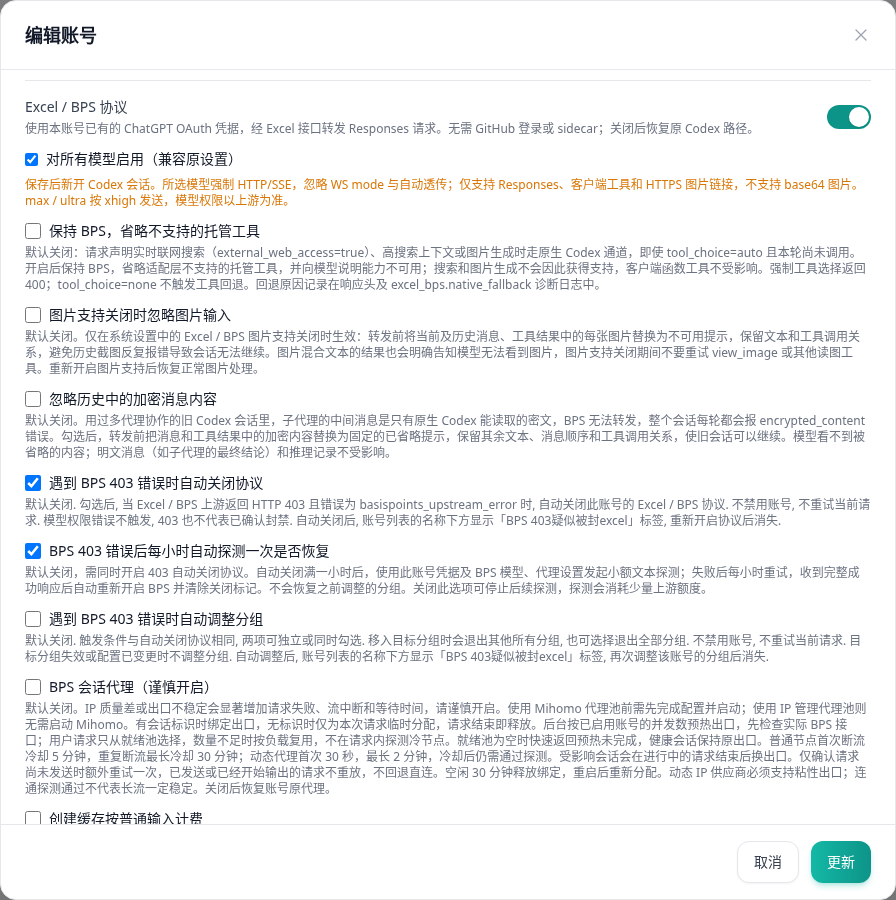
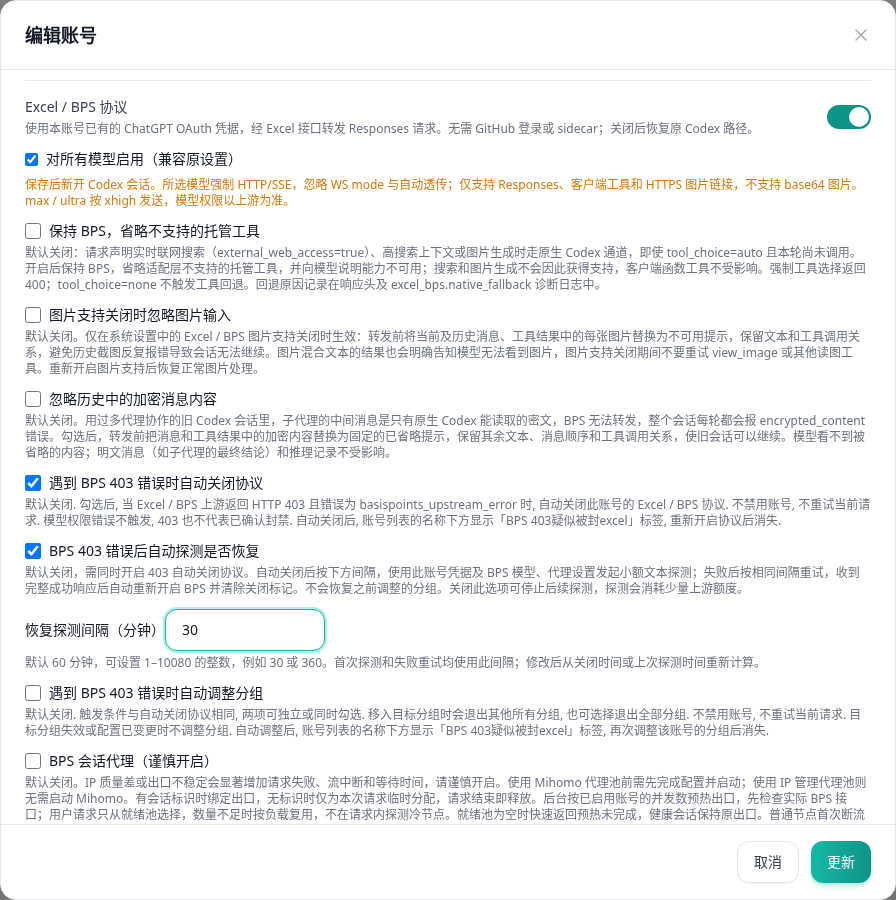
feat(bps): configure 403 recovery probe interval in minutes

Changed region(s): [[0.0312, 0.5911, 0.9688, 0.9333]]

diff --git a/frontend/src/components/account/EditAccountModal.vue b/frontend/src/components/account/EditAccountModal.vue
@@ -1843,6 +1843,14 @@
             <span class="text-sm">{{ t('admin.accounts.openai.excelBPSAutoRecoverOn403') }}</span>
           </label>
           <p class="mt-1 text-xs text-gray-500 dark:text-gray-400">{{ t('admin.accounts.openai.excelBPSAutoRecoverOn403Desc') }}</p>
+          <div v-if="excelBPSAutoRecoverOn403 && excelBPSAutoDisableOn403" class="mt-2">
+            <label class="block space-y-1">
+              <span class="text-sm">{{ t('admin.accounts.openai.excelBPS403RecoveryInterval') }}</span>
+              <input v-model.number="excelBPSRecoveryIntervalMinutes" type="number" min="1" :max="MAX_BPS_RECOVERY_INTERVAL_MINUTES" step="1" required
+                data-testid="excel-bps-recovery-interval" class="input w-40" />
+            </label>
+            <p class="mt-1 text-xs text-gray-500 dark:text-gray-400">{{ t('admin.accounts.openai.excelBPS403RecoveryIntervalHint') }}</p>
+          </div>
         </div>
         <div v-if="excelBPSEnabled" class="mt-3">
           <label class="flex items-center gap-2">
@@ -3219,6 +3227,7 @@
 <script setup lang="ts">
 import { ref, reactive, computed, watch, nextTick, onMounted } from 'vue'
 import { useI18n } from 'vue-i18n'
+import { DEFAULT_BPS_RECOVERY_INTERVAL_MINUTES, MAX_BPS_RECOVERY_INTERVAL_MINUTES, isValidBPSRecoveryInterval, bpsRecoveryIntervalOrDefault } from '@/utils/excelBPSRecovery'
 import { useAppStore } from '@/stores/app'
 import { useAuthStore } from '@/stores/auth'
 
@@ -3847,6 +3856,7 @@ const excelBPSProxySource = ref<'mihomo' | 'ip_pool'>('mihomo')
 const excelBPSCacheCreationAsInput = ref(false)
 const excelBPSAutoDisableOn403 = ref(false)
 const excelBPSAutoRecoverOn403 = ref(false)
+const excelBPSRecoveryIntervalMinutes = ref<number | string>(DEFAULT_BPS_RECOVERY_INTERVAL_MINUTES)
 const excelBPS403RecoveryPending = computed(() => props.account?.extra?.openai_excel_bps !== true && typeof props.account?.extra?.openai_excel_bps_403_disabled_at === 'string')
 const excelBPSOmitUnsupportedTools = ref(false)
 const excelBPSIgnoreImages = ref(false)
@@ -4360,6 +4370,7 @@ const syncFormFromAccount = (newAccount: Account | null) => {
   excelBPSCacheCreationAsInput.value = false
   excelBPSAutoDisableOn403.value = false
   excelBPSAutoRecoverOn403.value = false
+  excelBPSRecoveryIntervalMinutes.value = DEFAULT_BPS_RECOVERY_INTERVAL_MINUTES
   excelBPSOmitUnsupportedTools.value = false
   excelBPSIgnoreImages.value = false
   excelBPSIgnoreEncryptedContent.value = false
@@ -4396,6 +4407,7 @@ const syncFormFromAccount = (newAccount: Account | null) => {
     excelBPSCacheCreationAsInput.value = excelBPSEnabled.value && extra?.openai_excel_bps_cache_creation_as_input === true
     excelBPSAutoDisableOn403.value = newAccount.type === 'oauth' && extra?.openai_excel_bps_auto_disable_on_403 === true
     excelBPSAutoRecoverOn403.value = newAccount.type === 'oauth' && extra?.openai_excel_bps_auto_recover_on_403 === true
+    excelBPSRecoveryIntervalMinutes.value = bpsRecoveryIntervalOrDefault(extra?.openai_excel_bps_403_recovery_interval_minutes)
     excelBPSOmitUnsupportedTools.value = excelBPSEnabled.value && extra?.openai_excel_bps_omit_unsupported_tools === true
     excelBPSIgnoreImages.value = excelBPSEnabled.value && extra?.openai_excel_bps_ignore_images === true
     excelBPSIgnoreEncryptedContent.value = excelBPSEnabled.value && extra?.openai_excel_bps_ignore_encrypted_content === true
@@ -5362,6 +5374,10 @@ const submitUpdateAccount = async (accountID: number, updatePayload: Record<stri
 const handleSubmit = async () => {
   if (!props.account) return
   const accountID = props.account.id
+  if (props.account.platform === 'openai' && props.account.type === 'oauth' && !isSparkShadow.value && (excelBPSEnabled.value || excelBPS403RecoveryPending.value) && excelBPSAutoDisableOn403.value && excelBPSAutoRecoverOn403.value && !isValidBPSRecoveryInterval(excelBPSRecoveryIntervalMinutes.value)) {
+    appStore.showError(t('admin.accounts.openai.excelBPS403RecoveryIntervalInvalid'))
+    return
+  }
   if (props.account.platform === 'openai' && props.account.type === 'oauth' && !isSparkShadow.value && excelBPSEnabled.value && excelBPSAutoMoveOn403.value) {
     const target = Number(excelBPS403TargetGroupID.value)
     if (excelBPS403TargetGroupID.value === '' || !Number.isSafeInteger(target) || target < 0 ||
@@ -5967,6 +5983,9 @@ const handleSubmit = async () => {
         newExtra.openai_excel_bps_auto_disable_on_403 = true
       } else {
         delete newExtra.openai_excel_bps_auto_disable_on_403
+      }
+      if (newExtra.openai_excel_bps === true || preserveDisabledBPS) {
+        newExtra.openai_excel_bps_403_recovery_interval_minutes = bpsRecoveryIntervalOrDefault(excelBPSRecoveryIntervalMinutes.value)
       }
       if ((newExtra.openai_excel_bps === true || preserveDisabledBPS) && excelBPSAutoDisableOn403.value && excelBPSAutoRecoverOn403.value) {
         newExtra.openai_excel_bps_auto_recover_on_403 = true

diff --git a/frontend/src/i18n/locales/en/admin/accounts.ts b/frontend/src/i18n/locales/en/admin/accounts.ts
@@ -664,8 +664,11 @@ export default {
         excelBPSProxySourceIPPool: 'IP management pool',
         excelBPSProxySourceIPPoolDesc: 'Uses every active, unexpired proxy in IP management as the exit pool, with no Mihomo required. Binding, ranking, cooldown and probing follow the same rules as the Mihomo pool. Proxy changes apply within about 15 seconds.',
         excelBPSMihomoDesc: 'Off by default. Poor-quality or unstable exit IPs can substantially increase request failures, interrupted streams, and wait times. Enable with caution. Configure and start Mihomo before using its pool; the IP Management pool does not require Mihomo. Identified sessions keep a bound exit; requests without a session ID use a temporary binding released when the request ends. A background worker warms exits to match enabled account concurrency and checks the actual BPS endpoint. Requests select only ready exits and reuse them by load when scarce; they never probe cold nodes. An empty ready pool fails fast while warming continues. Healthy sessions keep their exit. Ordinary nodes cool down for 5 minutes after the first broken stream, increasing to at most 30 minutes on repeated failures. Dynamic proxies start at 30 seconds, up to 2 minutes. Nodes must pass probes after cooldown. Affected sessions switch exits only after in-flight requests finish. One extra attempt is allowed only when the request is confirmed unsent. Sent requests and responses already streaming are not replayed, and there is no direct fallback. Idle bindings expire after 30 minutes and are reassigned after restart. Dynamic IP providers must support sticky exits; a successful connectivity probe does not guarantee a stable long-running stream. Disabling restores the account proxy.',
-        excelBPSAutoRecoverOn403: 'Check BPS recovery hourly after a 403 error',
-        excelBPSAutoRecoverOn403Desc: 'Off by default; requires automatic disable on 403. One hour after an automatic shutdown, send a small text probe using this account’s credentials, BPS model and proxy settings. Retry hourly on failure; re-enable BPS and clear the shutdown marker only after a complete successful response. Previously changed groups are not restored. Turn this off to stop future probes. Probes use a small amount of upstream quota.',
+        excelBPSAutoRecoverOn403: 'Automatically check BPS recovery after a 403 error',
+        excelBPSAutoRecoverOn403Desc: 'Off by default; requires automatic disable on 403. After an automatic shutdown, send a small text probe at the interval below using this account’s credentials, BPS model and proxy settings. Retry at the same interval on failure; re-enable BPS and clear the shutdown marker only after a complete successful response. Previously changed groups are not restored. Turn this off to stop future probes. Probes use a small amount of upstream quota.',
+        excelBPS403RecoveryInterval: 'Recovery probe interval (minutes)',
+        excelBPS403RecoveryIntervalHint: 'Defaults to 60 minutes. Enter an integer from 1 to 10080, such as 30 or 360. Applies to the first probe and retries; changes are measured from shutdown or the last probe.',
+        excelBPS403RecoveryIntervalInvalid: 'Recovery probe interval must be an integer from 1 to 10080 minutes',
         excelBPSAutoDisableOn403: 'Automatically disable BPS on a 403 error',
         excelBPSAutoMoveOn403: 'Automatically change groups on a BPS 403 error',
         excelBPSAutoMoveOn403Desc: 'Disabled by default. Uses the same trigger as disabling BPS; both options work independently or together. Move to the selected group and leave all other groups, or leave every group. The account stays enabled and the request is not retried. Invalid destinations or changed settings leave memberships unchanged. After an automatic move, the account list shows a “BPS 403: Excel possibly banned” badge under the account name until the account’s groups change again.',

diff --git a/frontend/src/components/account/BulkEditAccountModal.vue b/frontend/src/components/account/BulkEditAccountModal.vue
@@ -112,6 +112,14 @@
                 <span class="text-sm">{{ t('admin.accounts.openai.excelBPSAutoRecoverOn403') }}</span>
               </label>
               <p class="mt-1 text-xs text-gray-500 dark:text-gray-400">{{ t('admin.accounts.openai.excelBPSAutoRecoverOn403Desc') }}</p>
+              <div v-if="excelBPSAutoRecoverOn403 && excelBPSAutoDisableOn403" class="mt-2">
+                <label class="block space-y-1">
+                  <span class="text-sm">{{ t('admin.accounts.openai.excelBPS403RecoveryInterval') }}</span>
+                  <input v-model.number="excelBPSRecoveryIntervalMinutes" type="number" min="1" :max="MAX_BPS_RECOVERY_INTERVAL_MINUTES" step="1" required
+                    data-testid="bulk-excel-bps-recovery-interval" class="input w-40" />
+                </label>
+                <p class="mt-1 text-xs text-gray-500 dark:text-gray-400">{{ t('admin.accounts.openai.excelBPS403RecoveryIntervalHint') }}</p>
+              </div>
             </div>
             <div class="mt-3">
               <label class="flex items-center gap-2">
@@ -1553,6 +1561,7 @@
 <script setup lang="ts">
 import { ref, watch, computed } from 'vue'
 import { useI18n } from 'vue-i18n'
+import { DEFAULT_BPS_RECOVERY_INTERVAL_MINUTES, MAX_BPS_RECOVERY_INTERVAL_MINUTES, isValidBPSRecoveryInterval, bpsRecoveryIntervalOrDefault } from '@/utils/excelBPSRecovery'
 import { useAppStore } from '@/stores/app'
 import { useAuthStore } from '@/stores/auth'
 import { adminAPI } from '@/api/admin'
@@ -1786,6 +1795,7 @@ const excelBPSProxySource = ref<'mihomo' | 'ip_pool'>('mihomo')
 const excelBPSCacheCreationAsInput = ref(false)
 const excelBPSAutoDisableOn403 = ref(false)
 const excelBPSAutoRecoverOn403 = ref(false)
+const excelBPSRecoveryIntervalMinutes = ref<number | string>(DEFAULT_BPS_RECOVERY_INTERVAL_MINUTES)
 const excelBPSOmitUnsupportedTools = ref(false)
 const excelBPSIgnoreImages = ref(false)
 const excelBPSIgnoreEncryptedContent = ref(false)
@@ -2100,6 +2110,7 @@ const buildUpdatePayload = (): Record<string, unknown> | null => {
       excelBPSEnabled.value && excelBPSCacheCreationAsInput.value
     extra.openai_excel_bps_auto_disable_on_403 = excelBPSEnabled.value && excelBPSAutoDisableOn403.value
     extra.openai_excel_bps_auto_recover_on_403 = excelBPSEnabled.value && excelBPSAutoDisableOn403.value && excelBPSAutoRecoverOn403.value
+    extra.openai_excel_bps_403_recovery_interval_minutes = bpsRecoveryIntervalOrDefault(excelBPSRecoveryIntervalMinutes.value)
     extra.openai_excel_bps_omit_unsupported_tools = excelBPSEnabled.value && excelBPSOmitUnsupportedTools.value
     extra.openai_excel_bps_ignore_images = excelBPSEnabled.value && excelBPSIgnoreImages.value
     extra.openai_excel_bps_ignore_encrypted_content = excelBPSEnabled.value && excelBPSIgnoreEncryptedContent.value
@@ -2362,6 +2373,10 @@ const handleSubmit = async () => {
     return
   }
 
+  if (enableExcelBPS.value && allOpenAIOAuthOnly.value && excelBPSEnabled.value && excelBPSAutoDisableOn403.value && excelBPSAutoRecoverOn403.value && !isValidBPSRecoveryInterval(excelBPSRecoveryIntervalMinutes.value)) {
+    appStore.showError(t('admin.accounts.openai.excelBPS403RecoveryIntervalInvalid'))
+    return
+  }
   if (enableExcelBPS.value && allOpenAIOAuthOnly.value && excelBPSEnabled.value && excelBPSAutoMoveOn403.value) {
     const target = Number(excelBPS403TargetGroupID.value)
     if (excelBPS403TargetGroupID.value === '' || !Number.isSafeInteger(target) || target < 0 ||
@@ -2528,6 +2543,7 @@ watch(
       excelBPSCacheCreationAsInput.value = false
       excelBPSAutoDisableOn403.value = false
       excelBPSAutoRecoverOn403.value = false
+      excelBPSRecoveryIntervalMinutes.value = DEFAULT_BPS_RECOVERY_INTERVAL_MINUTES
       excelBPSOmitUnsupportedTools.value = false
       excelBPSIgnoreImages.value = false
       excelBPSIgnoreEncryptedContent.value = false

diff --git a/frontend/src/i18n/locales/zh/admin/accounts.ts b/frontend/src/i18n/locales/zh/admin/accounts.ts
@@ -782,8 +782,11 @@ export default {
         excelBPSProxySourceIPPool: 'IP 管理代理池',
         excelBPSProxySourceIPPoolDesc: '使用「IP 管理」里全部启用且未过期的代理组成出口池，无需启动 Mihomo；绑定、选路、冷却和探测规则与 Mihomo 代理池相同。代理增删或启停约 15 秒内生效。',
         excelBPSMihomoDesc: '默认关闭。IP 质量差或出口不稳定会显著增加请求失败、流中断和等待时间，请谨慎开启。使用 Mihomo 代理池前需先完成配置并启动；使用 IP 管理代理池则无需启动 Mihomo。有会话标识时绑定出口，无标识时仅为本次请求临时分配，请求结束即释放。后台按已启用账号的并发数预热出口，先检查实际 BPS 接口；用户请求只从就绪池选择，数量不足时按负载复用，不在请求内探测冷节点。就绪池为空时快速返回预热未完成，健康会话保持原出口。普通节点首次断流冷却 5 分钟，重复断流最长冷却 30 分钟；动态代理首次 30 秒，最长 2 分钟，冷却后仍需通过探测。受影响会话会在进行中的请求结束后换出口。仅确认请求尚未发送时额外重试一次，已发送或已经开始输出的请求不重放，不回退直连。空闲 30 分钟释放绑定，重启后重新分配。动态 IP 供应商必须支持粘性出口；连通探测通过不代表长流一定稳定。关闭后恢复账号原代理。',
-        excelBPSAutoRecoverOn403: 'BPS 403 错误后每小时自动探测一次是否恢复',
-        excelBPSAutoRecoverOn403Desc: '默认关闭，需同时开启 403 自动关闭协议。自动关闭满一小时后，使用此账号凭据及 BPS 模型、代理设置发起小额文本探测；失败后每小时重试，收到完整成功响应后自动重新开启 BPS 并清除关闭标记。不会恢复之前调整的分组。关闭此选项可停止后续探测，探测会消耗少量上游额度。',
+        excelBPSAutoRecoverOn403: 'BPS 403 错误后自动探测是否恢复',
+        excelBPSAutoRecoverOn403Desc: '默认关闭，需同时开启 403 自动关闭协议。自动关闭后按下方间隔，使用此账号凭据及 BPS 模型、代理设置发起小额文本探测；失败后按相同间隔重试，收到完整成功响应后自动重新开启 BPS 并清除关闭标记。不会恢复之前调整的分组。关闭此选项可停止后续探测，探测会消耗少量上游额度。',
+        excelBPS403RecoveryInterval: '恢复探测间隔（分钟）',
+        excelBPS403RecoveryIntervalHint: '默认 60 分钟，可设置 1–10080 的整数，例如 30 或 360。首次探测和失败重试均使用此间隔；修改后从关闭时间或上次探测时间重新计算。',
+        excelBPS403RecoveryIntervalInvalid: '恢复探测间隔必须是 1–10080 之间的整数（分钟）',
         excelBPSAutoDisableOn403: '遇到 BPS 403 错误时自动关闭协议',
         excelBPSAutoMoveOn403: '遇到 BPS 403 错误时自动调整分组',
         excelBPSAutoMoveOn403Desc: '默认关闭. 触发条件与自动关闭协议相同, 两项可独立或同时勾选. 移入目标分组时会退出其他所有分组, 也可选择退出全部分组. 不禁用账号, 不重试当前请求. 目标分组失效或配置已变更时不调整分组. 自动调整后, 账号列表的名称下方显示「BPS 403疑似被封excel」标签, 再次调整该账号的分组后消失.',

diff --git a/frontend/src/components/account/__tests__/EditAccountModal.spec.ts b/frontend/src/components/account/__tests__/EditAccountModal.spec.ts
@@ -556,7 +556,7 @@ describe('EditAccountModal', () => {
     wrapper.unmount()
   })
 
-  it('persists hourly 403 recovery and clears it when auto-disable is turned off', async () => {
+  it.each([30, 360])('persists a %i minute recovery interval and disables recovery with auto-disable', async (minutes) => {
     const account = buildAccount()
     account.type = 'oauth'
     account.extra = { openai_excel_bps: true }
@@ -568,11 +568,16 @@ describe('EditAccountModal', () => {
     expect(wrapper.get<HTMLInputElement>(recovery).element.disabled).toBe(true)
     await wrapper.get('[data-testid="excel-bps-auto-disable-on-403"]').setValue(true)
     await wrapper.get(recovery).setValue(true)
+    const interval = wrapper.get<HTMLInputElement>('[data-testid="excel-bps-recovery-interval"]')
+    expect(interval.element.value).toBe('60')
+    await interval.setValue(String(minutes))
     await wrapper.get('form#edit-account-form').trigger('submit.prevent')
     await flushPromises()
     const extra = updateAccountMock.mock.calls[0]?.[1]?.extra
     expect(extra.openai_excel_bps_auto_recover_on_403).toBe(true)
+    expect(extra.openai_excel_bps_403_recovery_interval_minutes).toBe(minutes)
     await wrapper.setProps({ account: { ...account, extra } })
+    expect(wrapper.get<HTMLInputElement>('[data-testid="excel-bps-recovery-interval"]').element.value).toBe(String(minutes))
     expect(wrapper.get<HTMLInputElement>(recovery).element.checked).toBe(true)
     await wrapper.get('[data-testid="excel-bps-auto-disable-on-403"]').setValue(false)
     await wrapper.get('form#edit-account-form').trigger('submit.prevent')
@@ -580,10 +585,24 @@ describe('EditAccountModal', () => {
     expect(updateAccountMock.mock.calls[1]?.[1]?.extra.openai_excel_bps_auto_recover_on_403).toBeUndefined()
   })
 
+  it.each(['', '0', '-1', '1.5', '10081'])('rejects an invalid recovery interval: %s', async (value) => {
+    const account = buildAccount()
+    account.type = 'oauth'
+    account.extra = { openai_excel_bps: true, openai_excel_bps_auto_disable_on_403: true, openai_excel_bps_auto_recover_on_403: true }
+    updateAccountMock.mockReset()
+    const wrapper = mountModal(account)
+    await wrapper.get('[data-testid="excel-bps-recovery-interval"]').setValue(value)
+    await wrapper.get('form#edit-account-form').trigger('submit.prevent')
+    await flushPromises()
+    expect(updateAccountMock).not.toHaveBeenCalled()
+    wrapper.unmount()
+  })
+
   it('can enable and stop recovery on a 403-disabled account without losing hidden BPS options', async () => {
     const account = buildAccount()
     account.type = 'oauth'
     const options = {
+      openai_excel_bps_403_recovery_interval_minutes: 360,
       openai_excel_bps_models: ['gpt-6-astra'], openai_excel_bps_mihomo: true,
       openai_excel_bps_proxy_source: 'ip_pool', openai_excel_bps_ignore_images: true,
       openai_excel_bps_ignore_encrypted_content: true, openai_excel_bps_cache_creation_as_input: true,

diff --git a/frontend/src/components/account/__tests__/BulkEditAccountModal.spec.ts b/frontend/src/components/account/__tests__/BulkEditAccountModal.spec.ts
@@ -122,6 +122,7 @@ describe('BulkEditAccountModal', () => {
       openai_excel_bps_omit_unsupported_tools: false,
       openai_excel_bps_auto_disable_on_403: false,
       openai_excel_bps_auto_recover_on_403: false,
+      openai_excel_bps_403_recovery_interval_minutes: 60,
       openai_excel_bps_auto_move_on_403: false,
       openai_excel_bps_403_target_group_id: null
     }
@@ -157,20 +158,35 @@ describe('BulkEditAccountModal', () => {
       expect(adminAPI.accounts.bulkUpdate).toHaveBeenCalledWith([1, 2], { status: 'active' })
     })
 
-    it('saves hourly 403 recovery only with automatic shutdown enabled', async () => {
+    it.each(['', '0', '-1', '1.5', '10081'])('rejects invalid bulk recovery interval %s', async (value) => {
+      const wrapper = mountModal(oauthProps)
+      await enableBPS(wrapper)
+      await wrapper.get('[data-testid="bulk-excel-bps-auto-disable-on-403"]').setValue(true)
+      await wrapper.get('[data-testid="bulk-excel-bps-auto-recover-on-403"]').setValue(true)
+      await wrapper.get('[data-testid="bulk-excel-bps-recovery-interval"]').setValue(value)
+      await submit(wrapper)
+      expect(adminAPI.accounts.bulkUpdate).not.toHaveBeenCalled()
+      expect(showError).toHaveBeenCalledWith('admin.accounts.openai.excelBPS403RecoveryIntervalInvalid')
+      wrapper.unmount()
+    })
+
+    it.each([30, 360])('saves a %i minute interval only with automatic shutdown enabled', async (minutes) => {
       const wrapper = mountModal(oauthProps)
       await enableBPS(wrapper)
       const recovery = '[data-testid="bulk-excel-bps-auto-recover-on-403"]'
       expect(wrapper.get<HTMLInputElement>(recovery).element.disabled).toBe(true)
       await wrapper.get('[data-testid="bulk-excel-bps-auto-disable-on-403"]').setValue(true)
       await wrapper.get(recovery).setValue(true)
+      const interval = wrapper.get<HTMLInputElement>('[data-testid="bulk-excel-bps-recovery-interval"]')
+      expect(interval.element.value).toBe('60')
+      await interval.setValue(String(minutes))
       await submit(wrapper)
       expect(adminAPI.accounts.bulkUpdate).toHaveBeenLastCalledWith([1, 2], {
-        extra: { ...defaultExtra, openai_excel_bps_auto_disable_on_403: true, openai_excel_bps_auto_recover_on_403: true }
+        extra: { ...defaultExtra, openai_excel_bps_auto_disable_on_403: true, openai_excel_bps_auto_recover_on_403: true, openai_excel_bps_403_recovery_interval_minutes: minutes }
       })
       await wrapper.get('[data-testid="bulk-excel-bps-auto-disable-on-403"]').setValue(false)
       await submit(wrapper)
-      expect(adminAPI.accounts.bulkUpdate).toHaveBeenLastCalledWith([1, 2], { extra: defaultExtra })
+      expect(adminAPI.accounts.bulkUpdate).toHaveBeenLastCalledWith([1, 2], { extra: { ...defaultExtra, openai_excel_bps_403_recovery_interval_minutes: minutes } })
     })
 
     it('defaults BPS to Astra, 5.6 Sol and 5.6 Terra without changing other protocol settings', async () => {

diff --git a/frontend/src/utils/qualityRulePatch.ts b/frontend/src/utils/qualityRulePatch.ts
@@ -1,11 +1,12 @@
 import type { PelicanTestConfig, QualityBPSPolicy, QualityPolicy, ScheduledTestPlan, UpdateScheduledTestPlanRequest } from '@/types'
 import { DEFAULT_EXCEL_BPS_MODELS } from '@/constants/account'
 import { STATE_PROBE_QUESTION } from './intelligenceTest'
+import { DEFAULT_BPS_RECOVERY_INTERVAL_MINUTES, isValidBPSRecoveryInterval } from './excelBPSRecovery'
 
 // 新建「降智开 BPS」时的默认勾选；target_group_id = -1 表示还没选 403 后的目标分组。
 export function defaultQualityBPS(): QualityBPSPolicy {
   return { failure_threshold: 2, usage_percent: 0, require_all: false, all_models: false, models: [...DEFAULT_EXCEL_BPS_MODELS],
-    omit_unsupported_tools: true, ignore_images: false, ignore_encrypted_content: true, auto_disable_on_403: false, auto_recover_on_403: false, auto_move_on_403: false,
+    omit_unsupported_tools: true, ignore_images: false, ignore_encrypted_content: true, auto_disable_on_403: false, auto_recover_on_403: false, recovery_interval_minutes: DEFAULT_BPS_RECOVERY_INTERVAL_MINUTES, auto_move_on_403: false,
     target_group_id: -1, session_proxy: false, proxy_source: 'mihomo', cache_creation_as_input: false, pass_threshold: 2, hold_on_usage: true }
 }
 
@@ -30,6 +31,7 @@ export function qualityBPSError(bps: QualityBPSPolicy): string {
   if (!count && !usage) return 'qualityOps.bpsTriggerRequired'
   if (!validPassCount(bps.pass_threshold)) return 'qualityOps.bpsPassCountInvalid'
   if (!bps.all_models && !bps.models.some(model => model.trim())) return 'qualityOps.bpsModelsRequired'
+  if (bps.recovery_interval_minutes !== undefined && !isValidBPSRecoveryInterval(bps.recovery_interval_minutes)) return 'admin.accounts.openai.excelBPS403RecoveryIntervalInvalid'
   if (bps.auto_move_on_403 && !(bps.target_group_id >= 0)) return 'qualityOps.bpsTargetGroupRequired'
   return ''
 }
@@ -38,6 +40,7 @@ export function qualityBPSError(bps: QualityBPSPolicy): string {
 export function qualityBPSPayload(bps: QualityBPSPolicy): QualityBPSPolicy {
   return {
     ...bps,
+    recovery_interval_minutes: bps.recovery_interval_minutes ?? DEFAULT_BPS_RECOVERY_INTERVAL_MINUTES,
     models: bps.all_models ? [] : [...bps.models],
     target_group_id: bps.auto_move_on_403 ? bps.target_group_id : 0,
     proxy_source: bps.session_proxy ? bps.proxy_source || 'mihomo' : '',

diff --git a/frontend/src/utils/__tests__/qualityRulePatch.spec.ts b/frontend/src/utils/__tests__/qualityRulePatch.spec.ts
@@ -1,5 +1,5 @@
 import { describe, expect, it } from 'vitest'
-import { buildQualityRulePatch, qualityBPSError, qualityBPSForm, type QualityRuleDraft } from '../qualityRulePatch'
+import { buildQualityRulePatch, qualityBPSError, qualityBPSForm, qualityBPSPayload, type QualityRuleDraft } from '../qualityRulePatch'
 import type { QualityBPSPolicy, ScheduledTestPlan } from '@/types'
 
 const draft = (): QualityRuleDraft => ({
@@ -19,7 +19,7 @@ const bps = (): QualityBPSPolicy => ({
   failure_threshold: 2, usage_percent: 0, require_all: false, all_models: false, models: ['gpt-6-astra'],
   omit_unsupported_tools: true, ignore_images: false, ignore_encrypted_content: true, auto_disable_on_403: false,
   auto_move_on_403: false, target_group_id: -1, session_proxy: false, proxy_source: 'mihomo', cache_creation_as_input: false,
-  pass_threshold: 2, hold_on_usage: true,
+  pass_threshold: 2, hold_on_usage: true, recovery_interval_minutes: 60,
 })
 const probePlan = () => {
   const rule = plan(), config = rule.pelican_config!
@@ -141,5 +141,20 @@ describe('quality rule partial updates', () => {
     expect(qualityBPSError({ ...bps(), pass_threshold: 1 })).toBe('')
     expect(qualityBPSError({ ...bps(), pass_threshold: 100 })).toBe('')
     for (const pass_threshold of [0, 101, 1.5, Number.NaN]) expect(qualityBPSError({ ...bps(), pass_threshold })).toBe('qualityOps.bpsPassCountInvalid')
+  })
+})
+
+describe('BPS recovery interval in quality rules', () => {
+  it('defaults legacy rules to 60 minutes and persists custom intervals', () => {
+    expect(qualityBPSForm({}).recovery_interval_minutes).toBe(60)
+    expect(qualityBPSPayload({ ...bps(), recovery_interval_minutes: undefined }).recovery_interval_minutes).toBe(60)
+    for (const minutes of [1, 30, 360, 10080]) {
+      const form = qualityBPSForm({ ...bps(), recovery_interval_minutes: minutes })
+      expect(qualityBPSError(form)).toBe('')
+      expect(qualityBPSPayload(form).recovery_interval_minutes).toBe(minutes)
+    }
+  })
+  it.each([0, -1, 1.5, 10081, NaN, Infinity])('rejects invalid interval %s', (minutes) => {
+    expect(qualityBPSError({ ...bps(), recovery_interval_minutes: minutes })).toBe('admin.accounts.openai.excelBPS403RecoveryIntervalInvalid')
   })
 })

diff --git a/frontend/src/views/admin/__tests__/AccountQualityView.spec.ts b/frontend/src/views/admin/__tests__/AccountQualityView.spec.ts
@@ -362,13 +362,22 @@ describe('quality operations', () => {
     expect(scheduledTests.create).not.toHaveBeenCalled()
     expect(wrapper.find('[role="alert"]').text()).toContain('qualityOps.bpsTargetGroupRequired')
     await wrapper.find('[data-testid="quality-bps-target-group"]').setValue('21')
+    await wrapper.find('[data-testid="quality-bps-auto_disable_on_403"]').setValue(true)
+    await wrapper.find('[data-testid="quality-bps-auto_recover_on_403"]').setValue(true)
+    const interval = wrapper.get<HTMLInputElement>('[data-testid="quality-bps-recovery-interval"]')
+    expect(interval.element.value).toBe('60')
+    await interval.setValue('0')
+    await vm.save()
+    expect(scheduledTests.create).not.toHaveBeenCalled()
+    expect(wrapper.find('[role="alert"]').text()).toContain('admin.accounts.openai.excelBPS403RecoveryIntervalInvalid')
+    await interval.setValue('360')
     vm.form.pelican_config.quality.remove_group_ids = [21]
     await vm.save()
     const request = vi.mocked(scheduledTests.create).mock.calls[0][0] as any
     expect(request.pelican_config.quality).toEqual({ expected_answer: '', action: 'enable_bps', remove_group_ids: [], auto_restore: true, bps: {
       failure_threshold: 3, usage_percent: 80, require_all: true, all_models: false, models: ['gpt-6-astra'],
-      omit_unsupported_tools: true, ignore_images: true, ignore_encrypted_content: true, auto_disable_on_403: false,
-      auto_recover_on_403: false,
+      omit_unsupported_tools: true, ignore_images: true, ignore_encrypted_content: true, auto_disable_on_403: true,
+      auto_recover_on_403: true, recovery_interval_minutes: 360,
       auto_move_on_403: true, target_group_id: 21, session_proxy: false, proxy_source: '', cache_creation_as_input: false,
       pass_threshold: 3, hold_on_usage: false } })
     wrapper.unmount()

diff --git a/frontend/src/components/admin/operations/QualityBPSSettings.vue b/frontend/src/components/admin/operations/QualityBPSSettings.vue
@@ -25,6 +25,12 @@
       <div v-for="[key, label] in bpsToggles" :key="key">
         <label class="flex items-center gap-2"><input v-model="bps[key]" type="checkbox" :disabled="key === 'auto_recover_on_403' && !bps.auto_disable_on_403" :data-testid="`quality-bps-${key}`" />{{ t(`admin.accounts.openai.excelBPS${label}`) }}</label>
         <p class="mt-1 pl-6 text-xs text-gray-500">{{ t(`admin.accounts.openai.excelBPS${label}Desc`) }}</p>
+        <div v-if="key === 'auto_recover_on_403' && bps.auto_disable_on_403 && bps.auto_recover_on_403" class="mt-2 pl-6">
+          <label class="block space-y-1"><span>{{ t('admin.accounts.openai.excelBPS403RecoveryInterval') }}</span>
+            <input v-model.number="bps.recovery_interval_minutes" type="number" min="1" :max="MAX_BPS_RECOVERY_INTERVAL_MINUTES" step="1" required class="input w-40" data-testid="quality-bps-recovery-interval" />
+          </label>
+          <p class="mt-1 text-xs text-gray-500">{{ t('admin.accounts.openai.excelBPS403RecoveryIntervalHint') }}</p>
+        </div>
       </div>
       <div>
         <label class="flex items-center gap-2"><input v-model="bps.auto_move_on_403" type="checkbox" data-testid="quality-bps-auto_move_on_403" />{{ t('admin.accounts.openai.excelBPSAutoMoveOn403') }}</label>
@@ -59,6 +65,7 @@
 // 「降智后开启 BPS」的触发条件、满血后关闭和开启时默认勾选的模型/选项。
 // 质量运维的规则表单和添加/编辑账号弹窗共用这一份，改一处三处一致。
 import { useI18n } from 'vue-i18n'
+import { MAX_BPS_RECOVERY_INTERVAL_MINUTES } from '@/utils/excelBPSRecovery'
 import ModelWhitelistSelector from '@/components/account/ModelWhitelistSelector.vue'
 import QualityBPSRestoreOptions from './QualityBPSRestoreOptions.vue'
 import type { QualityBPSPolicy } from '@/types'

diff --git a/frontend/src/utils/excelBPSRecovery.ts b/frontend/src/utils/excelBPSRecovery.ts
@@ -1,0 +1,10 @@
+export const DEFAULT_BPS_RECOVERY_INTERVAL_MINUTES = 60
+export const MAX_BPS_RECOVERY_INTERVAL_MINUTES = 10080
+
+export function isValidBPSRecoveryInterval(value: unknown): value is number {
+  return typeof value === 'number' && Number.isInteger(value) && value >= 1 && value <= MAX_BPS_RECOVERY_INTERVAL_MINUTES
+}
+
+export function bpsRecoveryIntervalOrDefault(value: unknown): number {
+  return isValidBPSRecoveryInterval(value) ? value : DEFAULT_BPS_RECOVERY_INTERVAL_MINUTES
+}

diff --git a/frontend/src/types/index.ts b/frontend/src/types/index.ts
@@ -2549,6 +2549,7 @@ export interface QualityBPSPolicy {
   ignore_encrypted_content: boolean
   auto_disable_on_403: boolean
   auto_recover_on_403?: boolean
+  recovery_interval_minutes?: number
   auto_move_on_403: boolean
   target_group_id: number
   session_proxy: boolean
